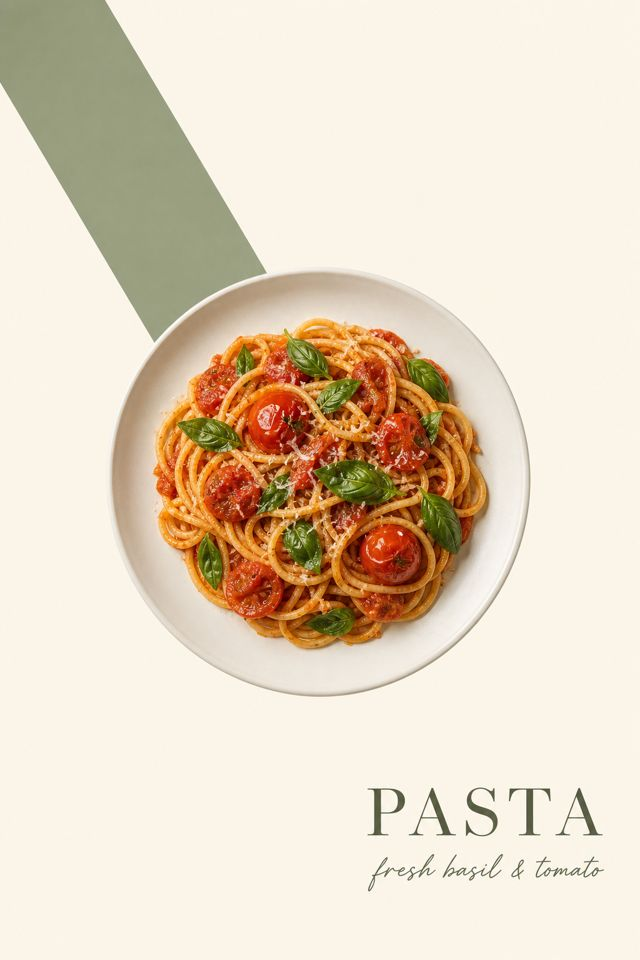
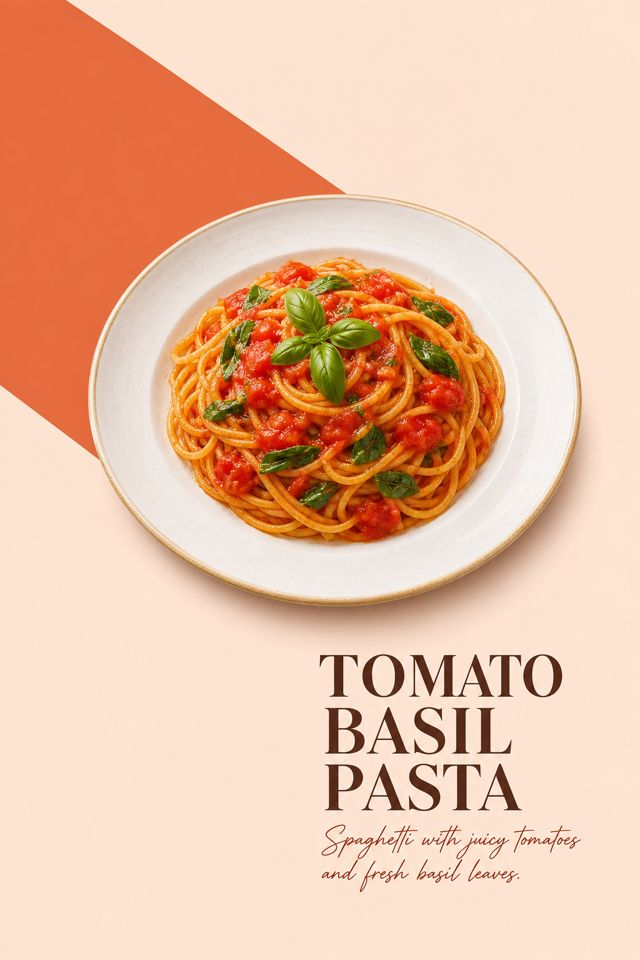
feat(templates): catalog v2 - restore original typography prompts, add dessert set
- refresh preview assets for drink two-panel (bg lettering restored) and
  diagonal band poster (serif+script restored) per prompt-v2 regeneration
- add 4 dessert templates: cake cross-section macro, partial closeup
  callout, circular typography poster, curve banner poster (47-50)
- tag engrave templates (04, 30) as dessert; dessert tag now covers 8
- display metadata only in client catalog; template prompts remain
  server-side

diff --git a/frontend-next/lib/catalog.ts b/frontend-next/lib/catalog.ts
@@ -81,7 +81,8 @@ export const CATALOG: CatalogTemplate[] = [
     "tags": [
       "#타이포그래피",
       "#뷰티",
-      "#감성"
+      "#감성",
+      "#디저트"
     ],
     "img": "/tpl/04_cream_engrave.jpg",
     "style_label": "파스텔",
@@ -527,7 +528,8 @@ export const CATALOG: CatalogTemplate[] = [
     "tags": [
       "#타이포그래피",
       "#질감",
-      "#감성"
+      "#감성",
+      "#디저트"
     ],
     "img": "/tpl/30_butter_engrave.jpg",
     "style_label": "파스텔",
@@ -806,5 +808,76 @@ export const CATALOG: CatalogTemplate[] = [
     "style_label": "리얼리즘",
     "use": "sns",
     "ledger_id": null
+  },
+  {
+    "no": 47,
+    "id": "cake_crosssection_macro",
+    "name": "케익 단면 클로즈업",
+    "desc": "단면의 층이 프레임을 가득 채우는 초근접 케이크 화보",
+    "family": "scene",
+    "finish": "photographic",
+    "tags": [
+      "#디저트",
+      "#연출컷",
+      "#질감",
+      "#인스타피드"
+    ],
+    "style_label": "리얼리즘",
+    "use": "sns",
+    "ledger_id": null,
+    "img": "/tpl/47_cake_crosssection_macro.jpg"
+  },
+  {
+    "no": 48,
+    "id": "partial_closeup_callout",
+    "name": "부분 클로즈업 오버레이",
+    "desc": "재료를 선과 박스로 짚어주는 부분 클로즈업 오버레이",
+    "family": "graphic_layout",
+    "finish": "photographic",
+    "tags": [
+      "#디저트",
+      "#레이아웃그래픽",
+      "#음식"
+    ],
+    "style_label": "리얼리즘",
+    "use": "sns",
+    "ledger_id": null,
+    "img": "/tpl/48_partial_closeup_callout.jpg"
+  },
+  {
+    "no": 49,
+    "id": "circular_typo_poster",
+    "name": "원형 타이포 포스터",
+    "desc": "바닥에 새긴 원형 타이포가 디저트를 감싸는 포스터",
+    "family": "poster_typo",
+    "finish": "graphic",
+    "tags": [
+      "#타이포그래피",
+      "#포스터",
+      "#디저트",
+      "#음식"
+    ],
+    "style_label": "팝 비비드",
+    "use": "sns",
+    "ledger_id": null,
+    "img": "/tpl/49_circular_typo_poster.jpg"
+  },
+  {
+    "no": 50,
+    "id": "curve_banner_poster",
+    "name": "곡선 배너 포스터",
+    "desc": "곡선 리본 속 손글씨 메뉴명이 살아있는 포스터",
+    "family": "poster_typo",
+    "finish": "graphic",
+    "tags": [
+      "#타이포그래피",
+      "#포스터",
+      "#음식",
+      "#디저트"
+    ],
+    "style_label": "팝 비비드",
+    "use": "sns",
+    "ledger_id": null,
+    "img": "/tpl/50_curve_banner_poster.jpg"
   }
 ];